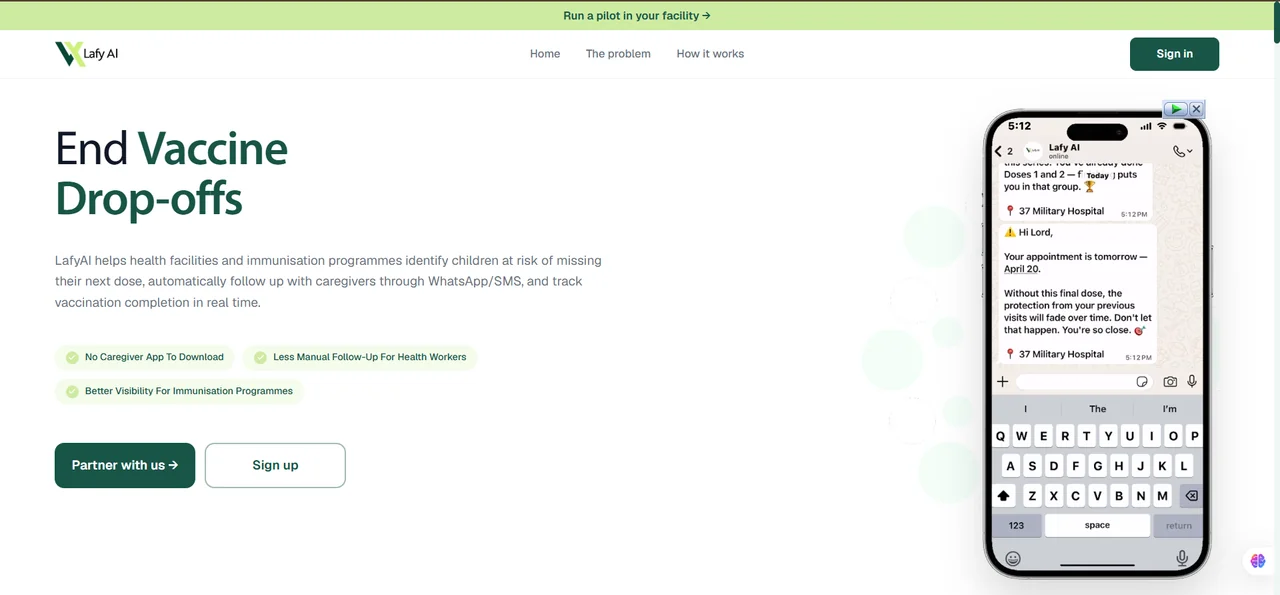
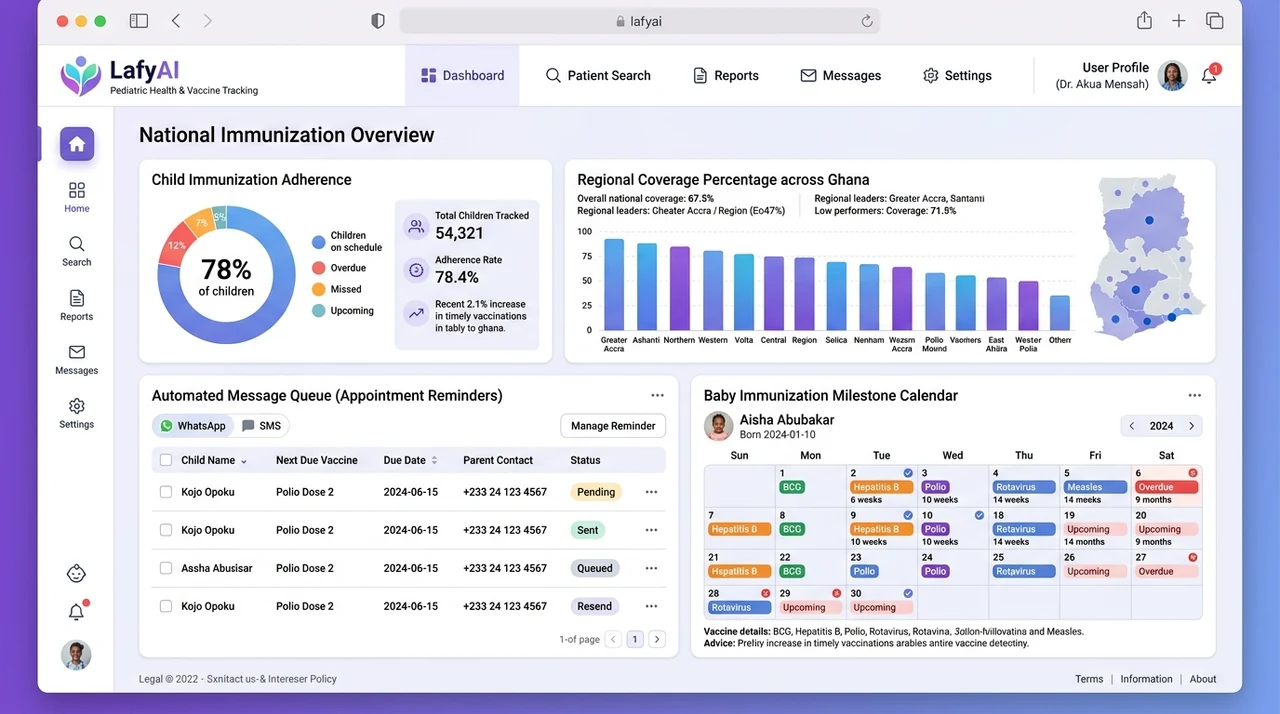
feat(clients): restore high-res dashboard mockups & add GES-Ho Municipal Directorate portal

diff --git a/src/assets/constants/clients.js b/src/assets/constants/clients.js
@@ -45,4 +45,16 @@ export const CLIENTS = [
     liveUrl:      'https://streetside-mart.vercel.app',
     confidential: false,
   },
+  {
+    id:           'ges-ho',
+    client:       'GES-Ho',
+    industry:     'Public Sector & Educational Portals',
+    title:        'GES-Ho — Municipal Directorate Portal',
+    description:  'A centralized web portal and administrative directory built for the Ghana Education Service Municipal Directorate in Ho. Enables educators, administrators, and the public to access regional school registries, official circulars, departmental rosters, and educational resources in real time.',
+    tags:         ['React', 'JavaScript', 'Tailwind CSS', 'Vite'],
+    image:        '/images/client/ges-ho.webp',
+    alt:          'Ghana Education Service Ho Municipal Directorate platform interface',
+    liveUrl:      'https://ges-ho-dir.vercel.app/',
+    confidential: false,
+  },
 ]
